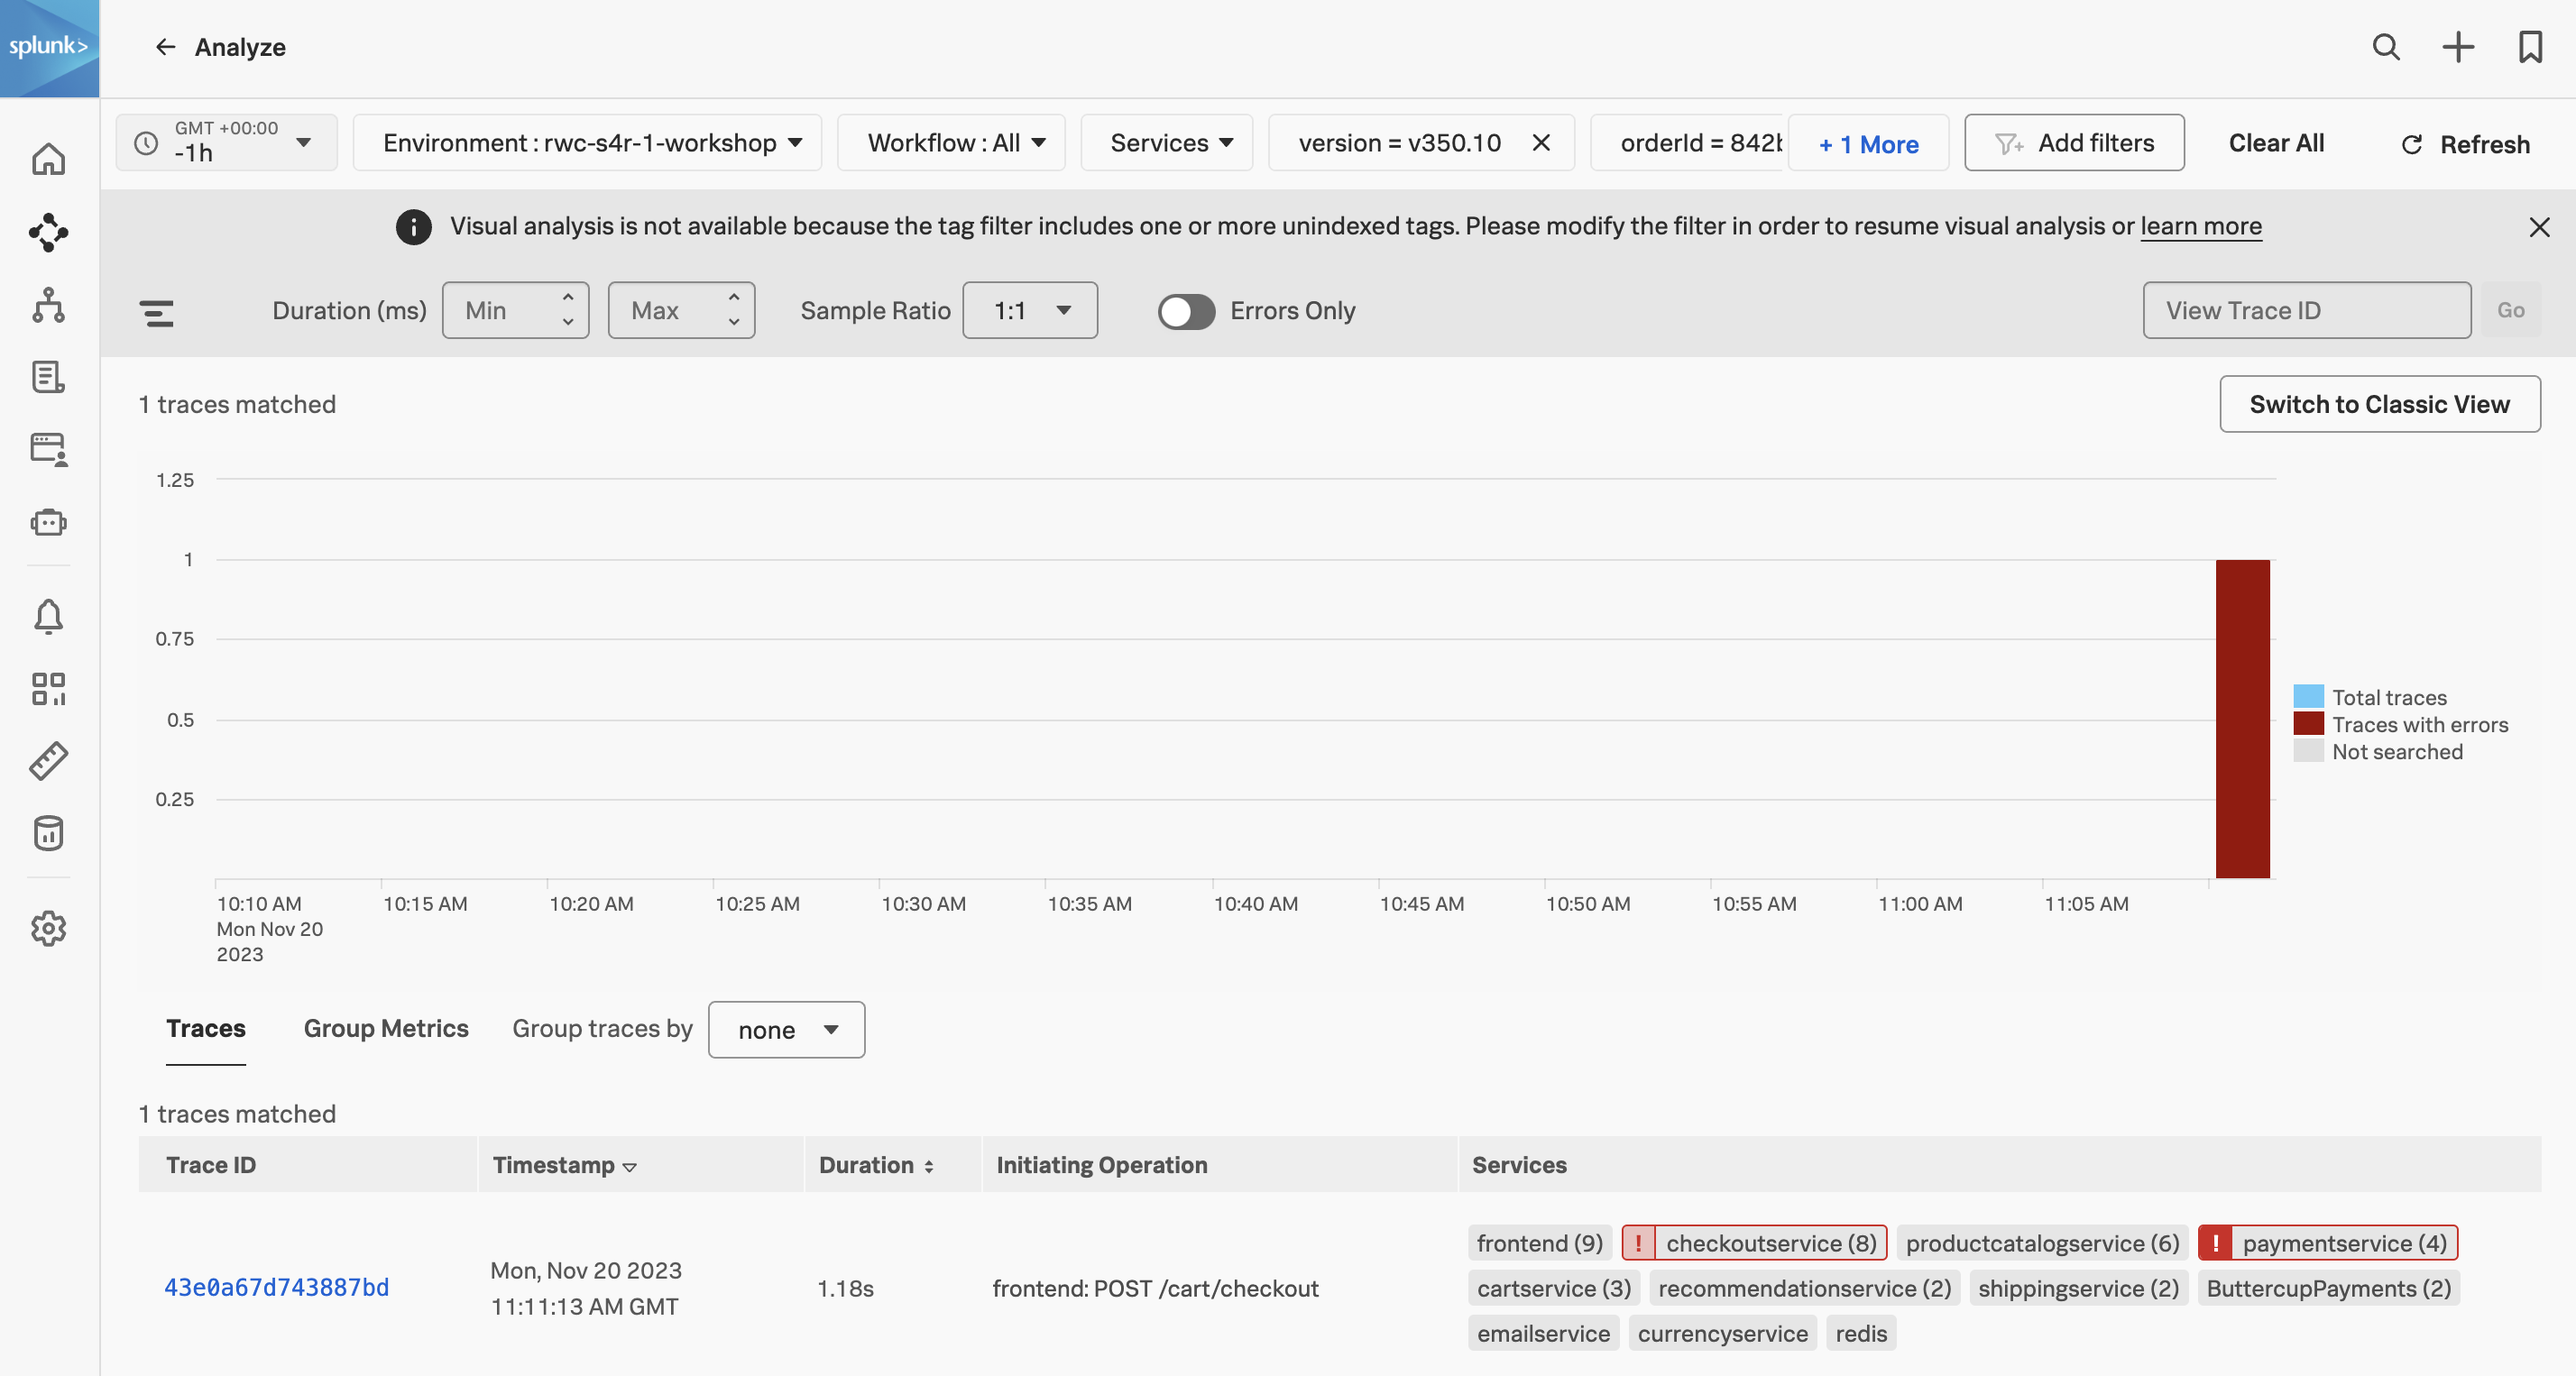
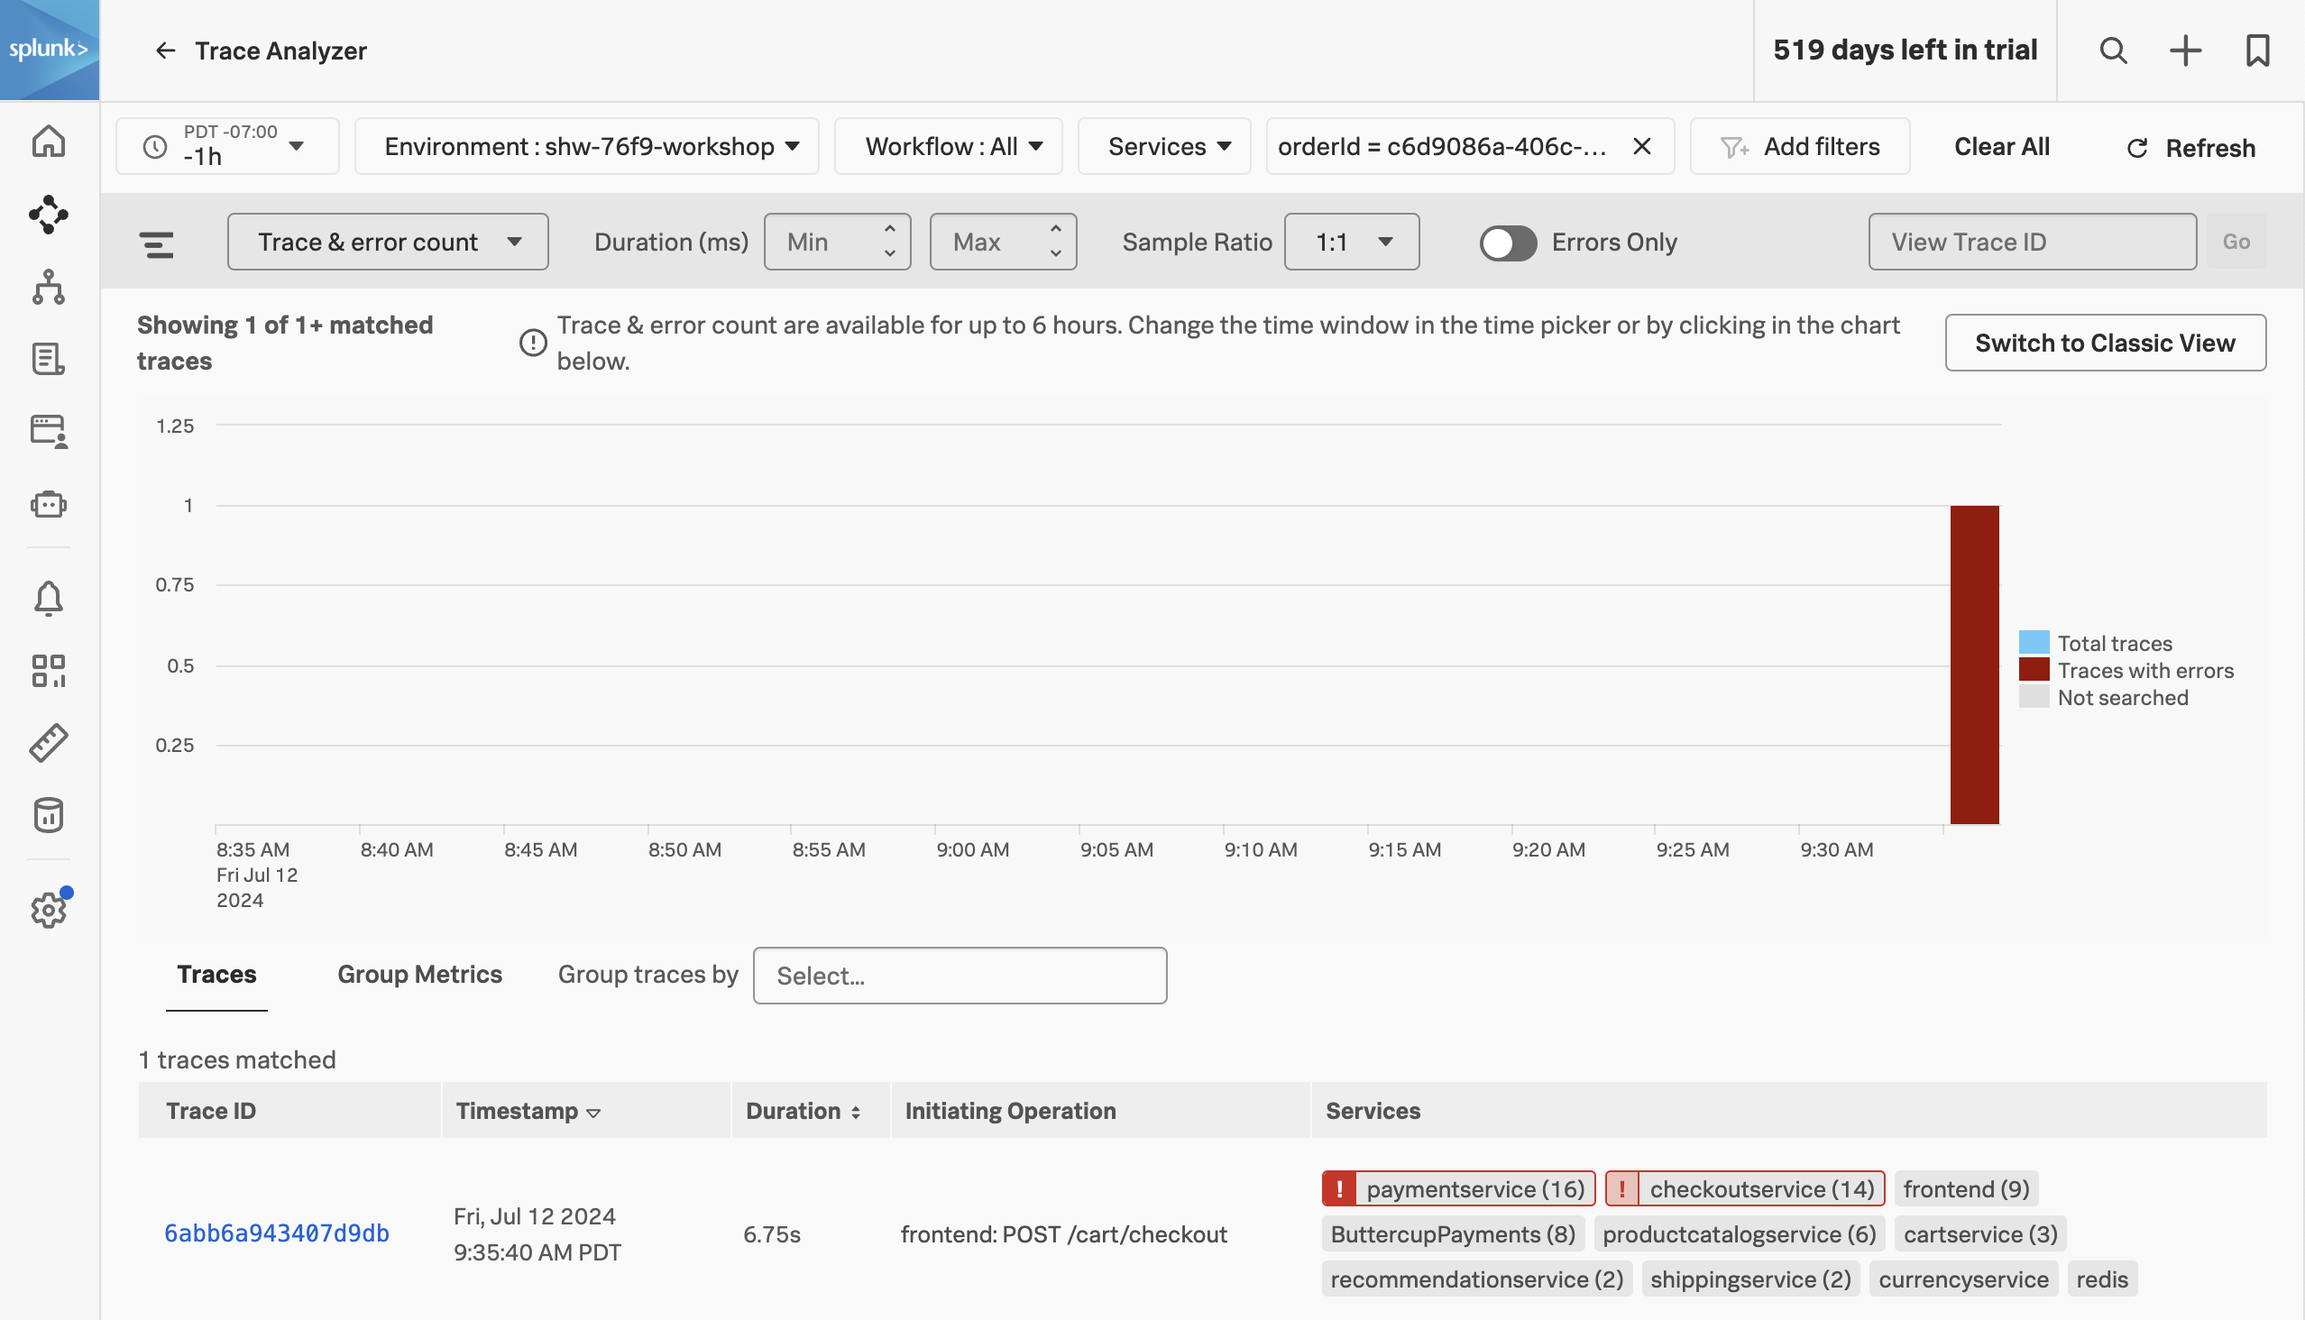
incorporated the trace analyzer heatmap into the Splunk4Rookies workshop

diff --git a/content/en/s4r/6-apm/5-apm-trace-analyzer.md b/content/en/s4r/6-apm/5-apm-trace-analyzer.md
@@ -19,8 +19,27 @@ Splunk Observability Cloud provides several tools for exploring application moni
 
 ![APM Trace Analyzer](../images/apm-trace-analyzer.png)
 
+The **Trace & error count** view shows the total traces and traces with errors in a stacked bar chart. You can use your mouse to select a specific period within the available time frame.
+
 {{% notice title="Exercise" style="green" icon="running" %}}
 
+* Click on the dropdown menu that says **Trace & error count**, and change it to **Trace duration** 
+
+{{% /notice %}}
+
+![APM Trace Analyzer Heat Map](../images/apm-trace-analyzer-heat-map.png)
+
+The **Trace Duration** view shows a heatmap of traces by duration.  The heatmap represents 3 dimensions of data:
+
+1. Time on the x-axis
+2. Trace duration on the y-axis
+3. The traces (or requests) per second are represented by the heatmap shades
+
+You can use your mouse to select an area on the heatmap, to focus on a specific time period and trace duration range.  
+
+{{% notice title="Exercise" style="green" icon="running" %}}
+
+* Switch from **Trace duration** back to **Trace & Error count**.
 * In the time picker select **Last 1 hour**.
 * Note, that most of our traces have errors (red) and there are only a limited amount of traces that are error-free (blue).
 * Make sure the **Sample Ratio** is set to `1:1` and **not** `1:10`.
